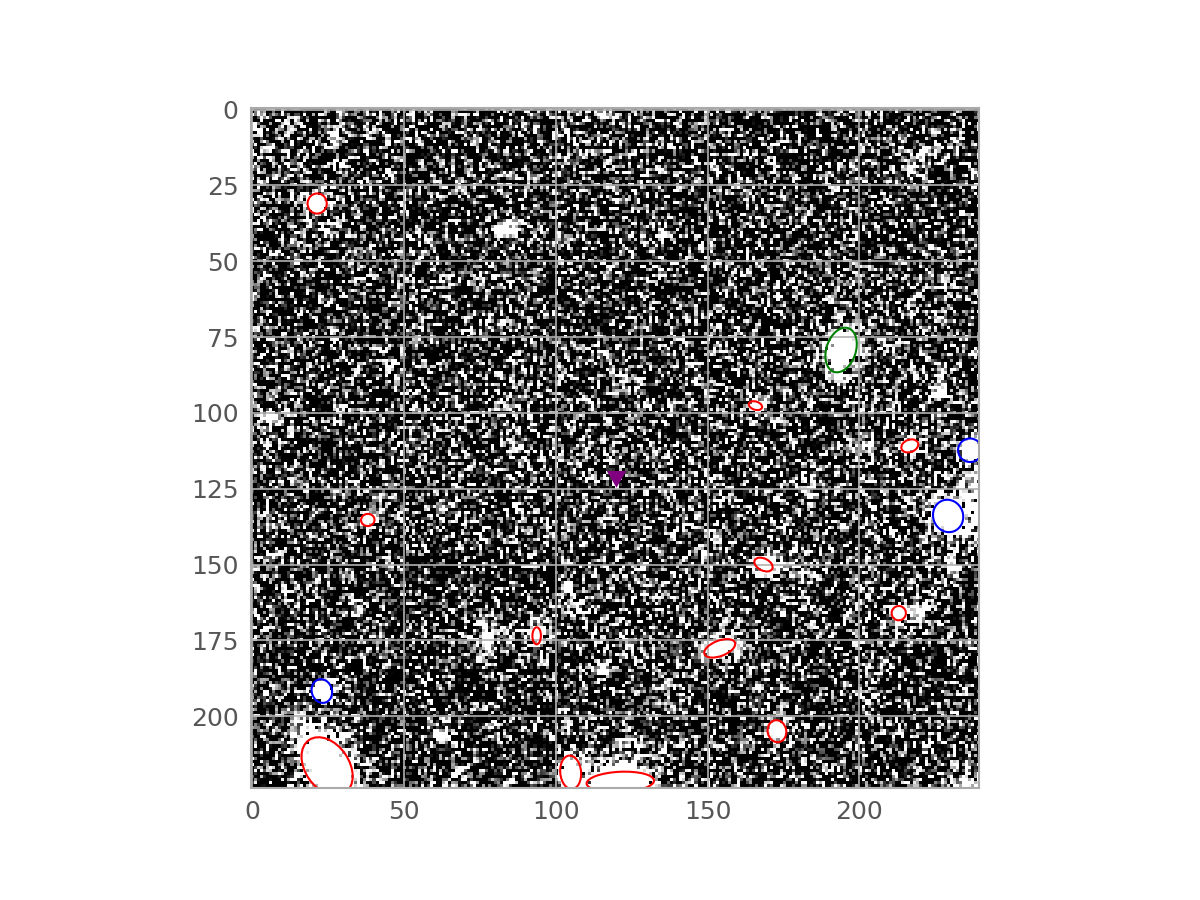
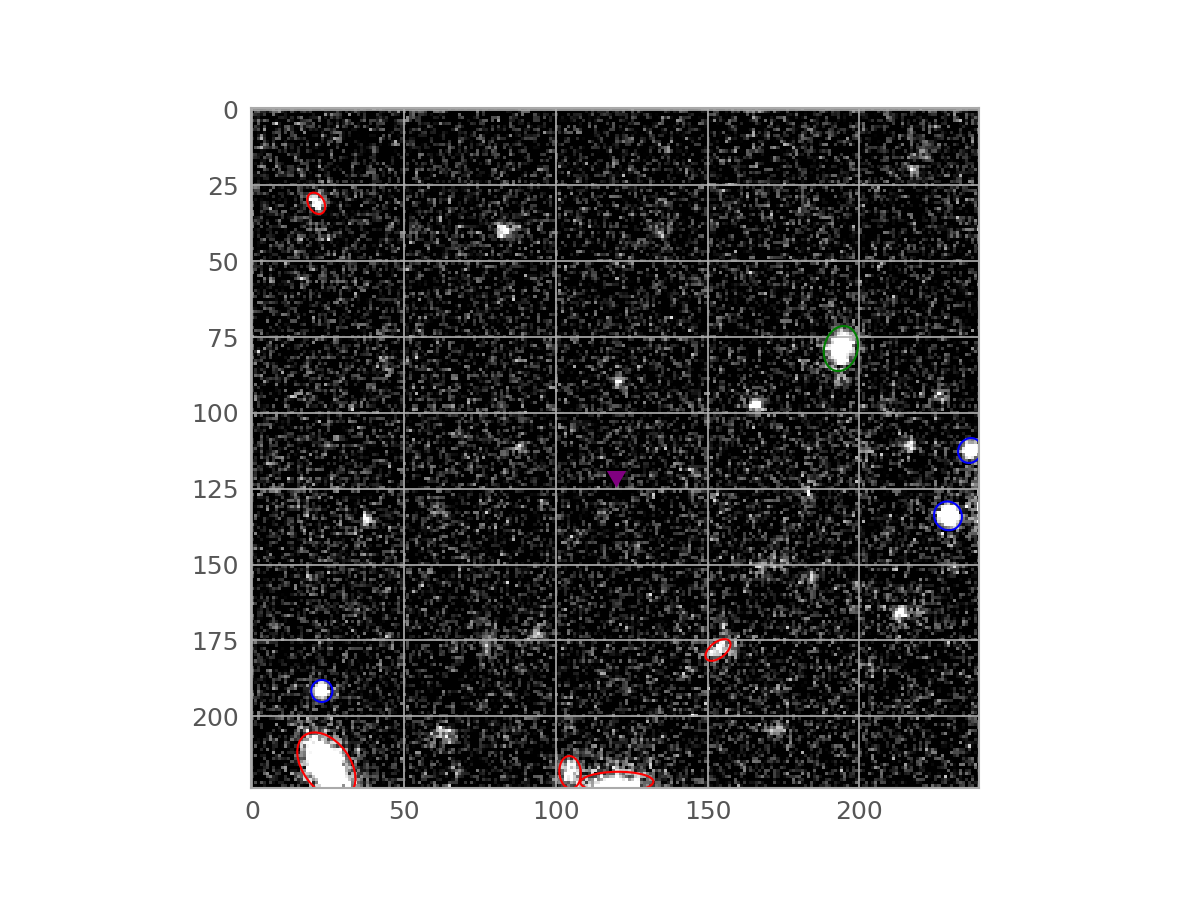
still fixing csvwriter

Changed region(s): [[0.185, 0.1244, 0.8325, 0.8711]]

diff --git a/csvwritercompy.py b/csvwritercompy.py
@@ -18,19 +18,16 @@ import random
 #import csv
 import sep
 import ast
-import json
 import matplotlib.pyplot as plt
 from astropy.visualization import astropy_mpl_style
 plt.style.use(astropy_mpl_style)
 from matplotlib.patches import Ellipse, RegularPolygon
 from astropy.io import fits
 from astropy.wcs import WCS
-
 from astropy import units as u
 from astropy.coordinates import SkyCoord
-from astroquery.sdss import SDSS
 from astropy.cosmology import Planck13 as cosmo
-from astropy.table import Table, vstack
+from astropy.table import Table
 from sdssTableGroupIndex import sdssTableGroupIndex
 
 ERRORFILE = 'errorfile.txt'
@@ -70,7 +67,7 @@ PLOT_ALL = False
 PLOT_ERR =  True #plots only files that give errors or low probability
 PLOT_DIR = os.getcwd() + '/plots' # where to put plot images
 ONLY_FLAG_ERRORS = True # catch errors, print filename, move on
-FILES = 'specified' #options are 'all', 'preset random', 'new random', 'range', 'specified', 'nonsquare
+FILES = 'range' #options are 'all', 'preset random', 'new random', 'range', 'specified', 'nonsquare
 
 #TODO delete
 SPECIFIED = []
@@ -220,6 +217,7 @@ class Image:
         colRealMags = []
         colFluxes = []
         self.photozs = [None]*len(self.objects)
+        self.photozerrs = [None]*len(self.objects)
         for i in range(len(self.objects)):
             curRa = self.ra[i]
             curDec = self.dec[i]
@@ -237,6 +235,7 @@ class Image:
                            and not np.isnan(sdssTable['z'][j]) \
                            and sdssTable['z'][j] != -9999.0:
                                self.photozs[i] = sdssTable['z'][j]
+                               self.photozerrs[i] = sdssTable['zErr'][j]
 
                         # if its a star, and its not right on the event, blacklist
                         if sdssTable['type'][j] == 6 \
@@ -395,7 +394,7 @@ class Image:
     def getFinalData(self):    
         '''Get "real" host location and redshifts'''
         finalDict = {}
-        f = self.filternum               
+        f = self.filterNum               
         bestCandidate = self.bestCandidate
         finalDict['KronRad (kpc)_%s' % f] = self.kronradKpc[bestCandidate]
         finalDict['separation (kpc)_%s' % f] = self.separationKpc[bestCandidate]
@@ -414,7 +413,7 @@ class Image:
         finalDict['pixelRank_%s' % f] = self.getPixelRank()
         finalDict['chanceCoincidence_%s' % f] = self.chanceCoincidence[bestCandidate]
         finalDict['host_found_%s' % f] = 1  
-    return finalProperties
+        return finalDict
 
     def getDefaultData(self):
         defaultFinalProperties = {}
@@ -437,9 +436,22 @@ class Image:
             defaultFinalProperties['Discrepency (arcsecs)_%s' % f] = None
             defaultFinalProperties['pixelRank_%s' % f] = 0.5
             defaultFinalProperties['chanceCoincidence_%s' % f] = 1
-            #TODO note that redshift_offset of -1 indicates no photoz, positive is difference
             defaultFinalProperties['host_found_%s' % f] = 0
-    return defaultFinalProperties
+        return defaultFinalProperties
+    
+    def getPhotozDif(self):
+        photoz = self.photozs[self.bestCandidate]
+        photozerr = self.photozerrs[self.bestCandidate]
+        eventz = self.eventz
+        
+        #TODO note that redshiftdif of -1 indicates no photoz, positive is difference
+        #PHOTOZ failed or no match
+        if photoz == None or photozerr==None or photozerr < -99  or np.isnan(photozerr): 
+            return -1
+        else:
+            return abs(eventz - photoz)/photozerr
+        
+
    
     def plot(self, myVmin=None, myVmax=None, target=None):
         green = [target] if target else [self.bestCandidate]
@@ -606,8 +618,12 @@ class Supernova:
             else:
                 raise
                 
-                #TODO note that redshift_offset of -1 indicates no photoz, positive is difference
-       finalDict['redshift_dif'] = -1
+#TODO note that redshift_offset of -1 indicates no photoz, positive is difference
+        if self.used_default:
+            finalDict['redshift_dif'] = -1
+        else:
+            finalDict['redshift_dif'] = self.images[self.filter_to_use].getPhotozDif()
+
         
         return finalDict
         
@@ -650,14 +666,16 @@ class Supernova:
         if good_images:
             self.filter_to_use = good_images[0]
 #TODO remove
-            goodCoords = self.images[self.filter_to_use].objCoords[self.images[self.filter_to_use].bestCandidate]
+            goodCoords = self.images[self.filter_to_use].\
+                objCoords[self.images[self.filter_to_use].bestCandidate]
 #TODO do I use object at event coords or good coords?
-            for x in good_photozs.extend(BAD_IMAGES):
+            for x in good_photozs + BAD_IMAGES:
                 self.images[x].correct_bestCandidate_to(goodCoords, self.filter_to_use)
         elif good_photozs:
 #TODO pick in chance coincidence
             self.filter_to_use = good_photozs[0]
-            goodCoords = self.images[self.filter_to_use].objCoords[self.images[self.filter_to_use].bestCandidate]
+            goodCoords = self.images[self.filter_to_use].\
+                objCoords[self.images[self.filter_to_use].bestCandidate]
             #use object at that location in all images
             for x in range(3,7):
                 self.images[x].correct_bestCandidate_to(goodCoords, self.filter_to_use)
@@ -672,28 +690,43 @@ class Supernova:
                 if bestChance < minChanceCoincidence:
                    minChanceCoincidence = bestChance
                    minOwner = num
-            self.filter_to_use=num
+            self.filter_to_use=minOwner
             if minChanceCoincidence <= 0.02:
-                self.images[self.filter_to_use].errorProtocol("USING BEST CHANCE: %s" % minChanceCoincidence)
-                goodCoords = self.images[self.filter_to_use].objCoords[self.images[self.filter_to_use].bestCandidate]
+                self.images[self.filter_to_use].errorProtocol(
+                        "USING BEST CHANCE: %s" % minChanceCoincidence)
+                goodCoords = self.images[self.filter_to_use].\
+                    objCoords[self.images[self.filter_to_use].bestCandidate]
                 for i in range(3,7):
                     self.images[i].correct_bestCandidate_to(goodCoords, self.filter_to_use)
             else:
-                self.images[self.filter_to_use].errorProtocol("Best.%s.NO_GOOD_CANIDIDATE" % minChanceCoincidence)
+                #GET DEFAULT DATA AND RETURN
+                self.images[self.filter_to_use].errorProtocol(
+                        "Best.%s.NO_GOOD_CANIDIDATE" % minChanceCoincidence)
                 global BAD_COUNT
                 BAD_COUNT += 1
+                all_sn_data = {}
                 for x in range(3,7):
-                    row.update(self.images[x].getDefaultData())
-                    return
-
+                    all_sn_data.update(self.images[x].getDefaultData())
+                    
+                self.used_default=False
+                #get non filter dependent data
+                all_sn_data.update(self.getSnFinalData())
+                return
+            
+            
+            
+        self.used_default = True
         all_sn_data = {}
         # get final data from the known good filter first
         best_data = self.images[self.filter_to_use].getFinalData()
         all_sn_data.update(best_data)
         for i in range(3,7):
-            if i == self.filter_to_use: #alread done above
+            if i == self.filter_to_use: 
+                #already collected data for this filter above
                 pass
             elif self.images[i].bestCandidate == None:
+                # the chosen host candidate could not be found in this image
+                # modify and use data from filter_to_use which chose the host
 #TODO check correctnesss
                 usedbestCandidate = self.images[self.filter_to_use].bestCandidate
                 newFluxParams =  (self.images[i].swappedData,
@@ -703,11 +736,15 @@ class Supernova:
                    self.images[self.filter_to_use].objects['b'][usedbestCandidate],
                    self.images[self.filter_to_use].objects['theta'][usedbestCandidate], 
                    2.5*self.images[self.filter_to_use].kronradKpc[usedbestCandidate])
-                all_sn_data.update(self.images[i].modifyFinalDataFrom(bestData, newFluxParams))
+                all_sn_data.update(
+                        self.images[i].modifyFinalDataFrom(best_data, newFluxParams))
             else:
+                #get filter dependent data
                 all_sn_data.update(self.images[i].getFinalData())
+                
 #TODO make flattening better                
-        #return (cache[3].extend(cache[4].extend(cache[5].extend(cache[6]))))
+        #get non-filter-dependent data
+        all_sn_data.update(self.getSnFinalData())
         return all_sn_data
     
         if PLOT_ALL:
@@ -725,14 +762,6 @@ def extraction(filenames):
         all_kronMags[snType] = []
         all_kronRads[snType] = []
 
-    if WRITE_CSV:
-        #create destination directory if it does not exist
-        if not os.path.isdir(DESTDIR):
-            os.mkdir(DESTDIR)
-        destfile = open(DESTDIR + WRITE_CSV, "w+")
-
-    if PRINT_DATA:
-        print(HEADER)
     all_all_data = []
     for filename in filenames: 
         # to extract transient and filter number from filename of the form
@@ -743,16 +772,14 @@ def extraction(filenames):
         idNumString = dotSplit[-3].split('c')[-1] #used for getting hectospec data
         # filter number is between second to last dot and last dot
         s = Supernova(idNumString)
+#TODO fix idNumString getting
         all_all_data.append(s.run())
+        
         #TODO column order
+        print(all_all_data)
         df = pd.DataFrame(all_all_data, columns=COLUMNS)
         if WRITE_CSV:
             df.to_csv(WRITE_CSV)
- 
-    if WRITE_CSV:
-        destfile.close()
-    if PRINT_DATA:
-        print(all_sn_data)
 
 def main():
 #TODO remove

diff --git a/sdsstablewriter.py b/sdsstablewriter.py
@@ -8,11 +8,6 @@ import numpy as np
 import pandas as pd
 import os
 import glob
-import random
-import csv
-import sep
-import ast
-import sys
 import matplotlib.pyplot as plt
 from astropy.visualization import astropy_mpl_style
 plt.style.use(astropy_mpl_style)
@@ -84,7 +79,7 @@ for f in sorted(list(fileset)):
     # make query
     print(f)
     query = "SELECT p.ra, p.dec, p.type, p.modelMag_g, p.modelMag_r, \
-                p.modelMag_i, p.modelMag_z, pz.z\
+                p.modelMag_i, p.modelMag_z, pz.z, pz.zErr\
             FROM Photoz AS pz RIGHT JOIN PhotoObj AS p ON pz.objid = p.objid \
             WHERE p.mode = 1 AND p.ra < %s and p.ra > %s AND p.dec < %s and p.dec > %s" \
             % (maxRa, minRa, maxDec, minDec)
@@ -99,8 +94,9 @@ for f in sorted(list(fileset)):
     else:    
         try:
             full_table = vstack([full_table, sdssTable])
-        except Exception as e:
+        except Exception as e: 
             sdssTable.replace_column('z', [0]*len(sdssTable))
+            sdssTable.replace_column('zErr', [-999.]*len(sdssTable))
             full_table = vstack([full_table, sdssTable])
             #raise
             #errs.append(str(f) + str(e))
